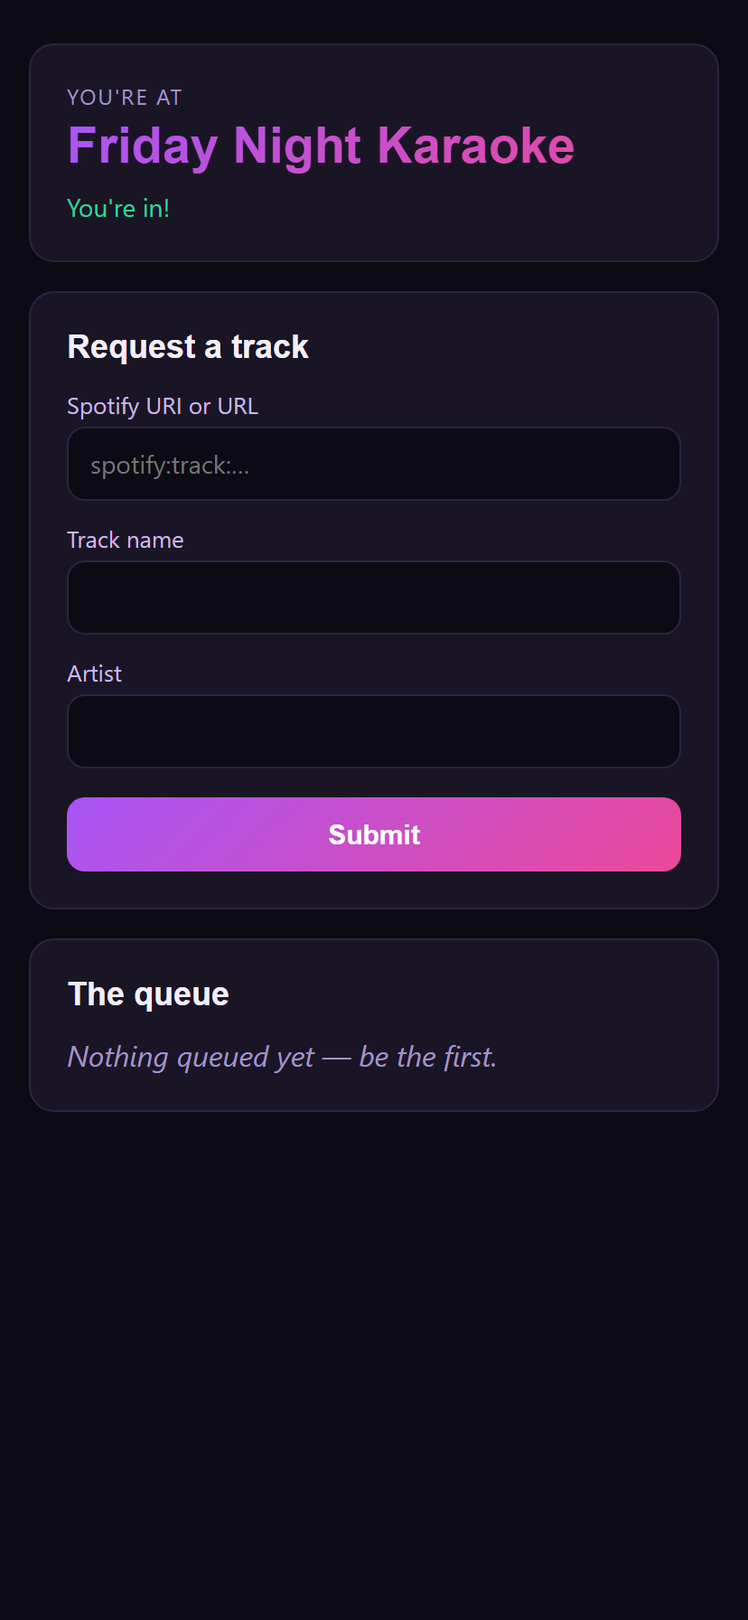
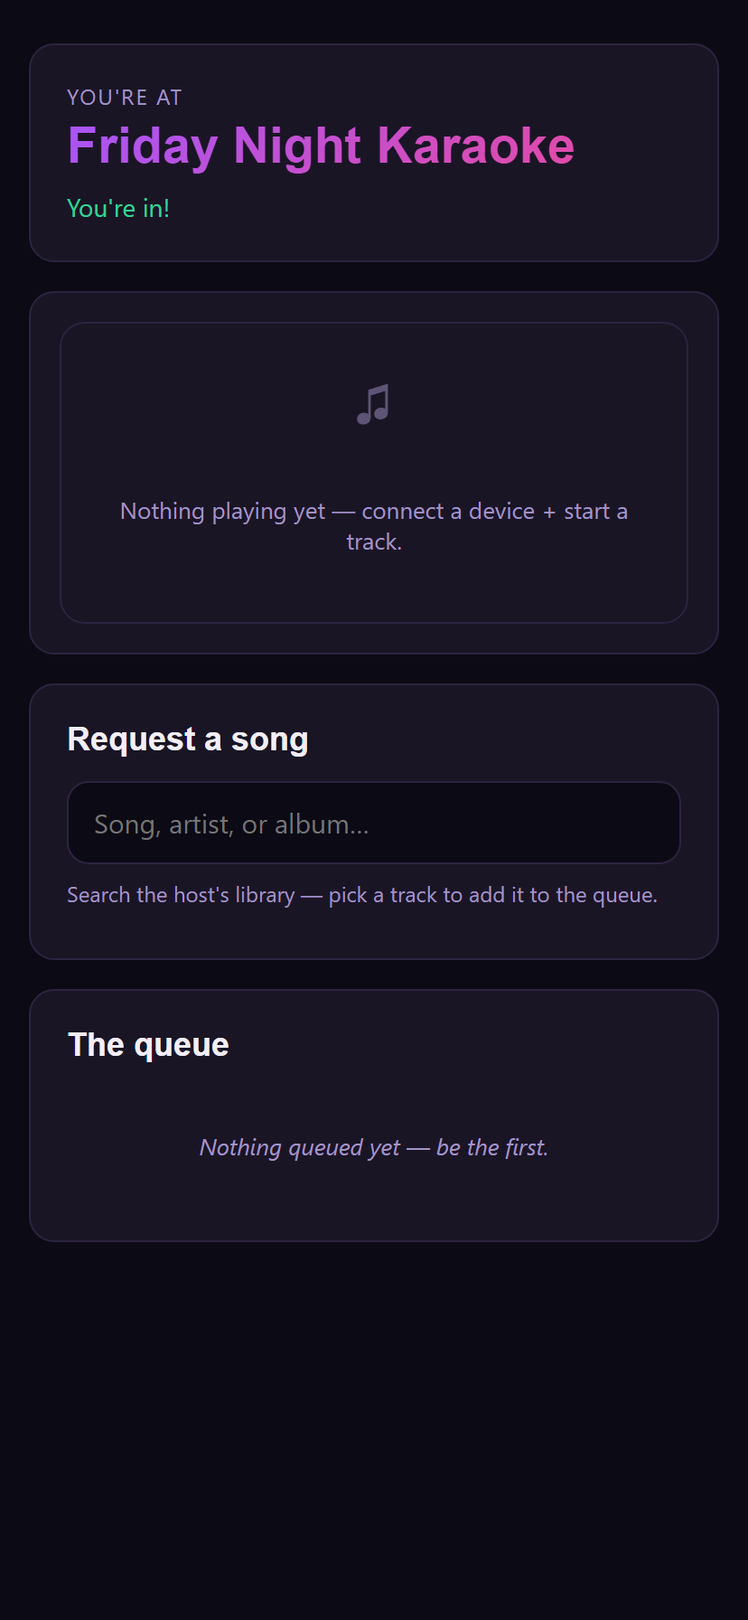
docs: refresh README + ROADMAP for the working oss-demo, regen screenshots
README "What's working" now lists the actual feature set (live Spotify
search, host playback controls, QR + device picker, public TV view)
instead of the previous "early scaffold" framing. Added two new
screenshot tiles — host-session and tv-view — captured by the
Playwright script which now produces five PNGs (host-login,
host-dashboard, host-session, guest-landing, tv-view) on every run.

ROADMAP is restructured around the OSS / hosted boundary. P0 column
flips most items to ✅ (poller, playback control, devices, TV
snapshot, persistent skip-vote ledger, reusable Angular components,
TV page). The "Out of scope" section grew + got more specific so
contributors and the opendj.live team know exactly which lines stay
private (Branding Studio, multi-zone billing, polished TV layouts,
lyrics rendering, analytics, smart sets, onboarding wizard polish,
multi-venue account drawer, smart-ad-after-request, pricing, DJ
service, OAuth-error variants, re-auth modal, session-end recap).

diff --git a/scripts/capture-screenshots.ts b/scripts/capture-screenshots.ts
@@ -146,6 +146,21 @@ async function captureHostDashboard(browser: Browser, cookieValue: string): Prom
   await page.context().close();
 }
 
+async function captureHostSession(
+  browser: Browser,
+  cookieValue: string,
+  sessionId: string,
+): Promise<void> {
+  const page = await newAuthedPage(browser, cookieValue);
+  await page.goto(`${BASE_URL}/host/sessions/${sessionId}`, { waitUntil: 'networkidle' });
+  // Wait for the now-playing card to render. It might say "Nothing playing
+  // yet" but that's still a fully-rendered state worth capturing.
+  await page.waitForSelector('app-now-playing-card', { timeout: 5_000 });
+  await page.waitForTimeout(500);
+  await page.screenshot({ path: resolve(OUT_DIR, 'host-session.png'), fullPage: false });
+  await page.context().close();
+}
+
 async function captureGuestLanding(browser: Browser, qrSlug: string): Promise<void> {
   const ctx = await browser.newContext({
     viewport: MOBILE_VIEWPORT,
@@ -158,6 +173,21 @@ async function captureGuestLanding(browser: Browser, qrSlug: string): Promise<vo
   // Guest fingerprint + identity calls happen on mount — give them a moment.
   await page.waitForTimeout(800);
   await page.screenshot({ path: resolve(OUT_DIR, 'guest-landing.png'), fullPage: false });
+  await ctx.close();
+}
+
+async function captureTvView(browser: Browser, qrSlug: string): Promise<void> {
+  // TV view targets a 1280x720 fullscreen surface — common for casts to a
+  // browser tab on a TV. Higher res Playwright takes for free at @2.
+  const ctx = await browser.newContext({
+    viewport: { width: 1280, height: 720 },
+    deviceScaleFactor: 2,
+  });
+  const page = await ctx.newPage();
+  await page.goto(`${BASE_URL}/tv/${qrSlug}`, { waitUntil: 'networkidle' });
+  // tvSnapshot fetch + WS open happen on mount; allow them to settle.
+  await page.waitForTimeout(1000);
+  await page.screenshot({ path: resolve(OUT_DIR, 'tv-view.png'), fullPage: false });
   await ctx.close();
 }
 
@@ -180,13 +210,17 @@ async function main(): Promise<void> {
     console.log('[screenshots] captured host-login.png');
     await captureHostDashboard(browser, setup.cookieValue);
     console.log('[screenshots] captured host-dashboard.png');
+    await captureHostSession(browser, setup.cookieValue, setup.sessionId);
+    console.log('[screenshots] captured host-session.png');
     await captureGuestLanding(browser, setup.qrSlug);
     console.log('[screenshots] captured guest-landing.png');
+    await captureTvView(browser, setup.qrSlug);
+    console.log('[screenshots] captured tv-view.png');
   } finally {
     await browser.close();
   }
 
-  console.log(`[screenshots] done — wrote 3 files to ${OUT_DIR}`);
+  console.log(`[screenshots] done — wrote 5 files to ${OUT_DIR}`);
 }
 
 main().catch((err) => {

diff --git a/ROADMAP.md b/ROADMAP.md
@@ -4,44 +4,48 @@ This roadmap mirrors the priority list from [`docs/agent-brief.md`](./docs/agent
 
 Status legend: ✅ done · 🔄 in progress · ⏳ planned · ⛔ out of scope (lives in private `opendj-live`)
 
-## P0 — foundation
+## P0 — foundation (every line item shipped)
 
 | Status | Item                                                                                                                                                                                                                                               |
 | ------ | -------------------------------------------------------------------------------------------------------------------------------------------------------------------------------------------------------------------------------------------------- |
 | ✅     | Monorepo scaffold (pnpm + Turborepo + strict TS + Vitest + ESLint + Prettier)                                                                                                                                                                      |
 | ✅     | OSS conventions (MIT, Contributor Covenant, DCO, Conventional Commits, Changesets, dependabot)                                                                                                                                                     |
-| ✅     | `IStreamingProvider` base interface + modular `ISupports*` feature interfaces + capability descriptors                                                                                                                                             |
-| ✅     | `SpotifyProvider` implementing the interface using fetch (no SDK)                                                                                                                                                                                  |
+| ✅     | `IStreamingProvider` base interface + modular `ISupports*` feature interfaces + capability descriptors (Search, NowPlayingRead, QueueTrack, SkipTrack, Pause, Resume, VolumeRead, VolumeSetAbsolute, **DevicesRead, DeviceTransferPlayback**)      |
+| ✅     | `SpotifyProvider` implementing all the above using fetch (no SDK)                                                                                                                                                                                  |
 | ✅     | `StreamingRouter` + explicit provider registry wiring                                                                                                                                                                                              |
 | ✅     | Public package boundaries published (`@opendj/core`, `@opendj/db`, `@opendj/auth`, `@opendj/backend`, `@opendj/realtime`, `@opendj/abuse`, `@opendj/sync`, `@opendj/lyrics`, `@opendj/frontend`, `@opendj/frontend-template`, `@opendj/app-shell`) |
-| ✅     | Drizzle schema + migrations (users, accounts, auth, sessions, queue, slots, lyrics, abuse) — generated + applied on boot                                                                                                                           |
-| ✅     | Realtime room abstraction: `RealtimeRoom`, `SessionSnapshot`, `SessionEvent`, `SessionCommand`                                                                                                                                                     |
+| ✅     | Drizzle schema + migrations (users, accounts, auth, sessions, queue items, **queue_skip_votes**, slots, lyrics, abuse) — generated + applied on boot                                                                                               |
+| ✅     | Realtime room abstraction: `RealtimeRoom`, `SessionSnapshot` (now with `recentlyPlayed`), `SessionEvent`, `SessionCommand`                                                                                                                         |
 | ✅     | OSS `NodeSessionRoom` in-process realtime implementation                                                                                                                                                                                           |
-| 🔄     | Sync primitives: `@opendj/sync` + `PlaybackClockSample` + normalized progress + `SongSyncAdapter`                                                                                                                                                  |
-| 🔄     | Lyrics/karaoke: `@opendj/lyrics` + LRCLIB adapter + LRC parser + lyrics cache + feedback capture                                                                                                                                                   |
+| ✅     | **`NowPlayingPoller`** — per-room 5s tick that calls `provider.getNowPlaying()` and publishes diffs. Lifecycle driven by WS subscriber count + 30s idle grace. Handles 401 (stop), 429 (exp backoff), transient (continue).                        |
+| ✅     | **Playback control routes** — `POST /sessions/:id/playback/{skip,pause,resume}` gated by `provider:control_playback`                                                                                                                               |
+| ✅     | **Spotify Connect device routes** — `GET /sessions/:id/devices` + `POST /sessions/:id/devices/:deviceId/activate`                                                                                                                                  |
+| ✅     | **Public TV snapshot route** — `GET /sessions/by-slug/:slug/tv-snapshot` for the casting page (no auth)                                                                                                                                            |
+| 🔄     | Sync primitives: `@opendj/sync` + `PlaybackClockSample` + normalized progress + `SongSyncAdapter` (basic types in place; cross-provider clock alignment is hosted's polish layer)                                                                  |
+| 🔄     | Lyrics/karaoke: `@opendj/lyrics` + LRCLIB adapter + LRC parser + lyrics cache + feedback capture (lookup service in place; rendering UI lives in `opendj-live`)                                                                                    |
 | ✅     | Auth & claims: OAuth/OIDC login (Google), email/password fallback (Argon2id), email verification, password reset, sessions, claim middleware, account membership, account bootstrap                                                                |
 | ✅     | Abuse prevention: action signal capture, rolling-window rate limits, risk scoring                                                                                                                                                                  |
-| ✅     | Core queue logic: `canEnqueue`, `enforcePerGuestCap`, `dedupeQueue`, `canSkip`                                                                                                                                                                     |
+| ✅     | Core queue logic: `canEnqueue`, `enforcePerGuestCap`, `dedupeQueue`, `canSkip`, **persistent skip-vote dedupe** (`queue_skip_votes` table)                                                                                                         |
 | ✅     | Generic music-provider OAuth routes (Spotify connected via host dashboard)                                                                                                                                                                         |
 | ✅     | Guest identity + slot system + bearer-token auth                                                                                                                                                                                                   |
-| ✅     | Angular 21 OSS frontend template — guest request page                                                                                                                                                                                              |
-| ✅     | Angular 21 OSS frontend template — host login + dashboard + session moderation                                                                                                                                                                     |
-| 🔄     | Docker Compose OSS demo — boots end-to-end; CI smoke test still pending                                                                                                                                                                            |
+| ✅     | Angular 21 OSS frontend template — guest request page (live Spotify search, now-playing, recently-played, queue with skip-vote pill)                                                                                                               |
+| ✅     | Angular 21 OSS frontend template — host login + dashboard + session moderation (now-playing card with skip/pause/resume, QR code, device picker, recently-played)                                                                                  |
+| ✅     | Angular 21 OSS frontend template — public `/tv/:slug` page (read-only fullscreen casting view)                                                                                                                                                     |
+| ✅     | Reusable Angular components in `@opendj/frontend-template/src/app/components/`: `NowPlayingCard`, `QrCode`, `SearchResultList`, `QueueList`, `RecentlyPlayedList`, `DevicePicker`                                                                  |
+| 🔄     | Docker Compose OSS demo — boots end-to-end with migrations + frontend bundle; CI smoke test still pending                                                                                                                                          |
 
 ## P1
 
-| Status | Item                                                        |
-| ------ | ----------------------------------------------------------- |
-| ⏳     | Vote-to-skip (fixed / percentage / host approval)           |
-| ⏳     | Host onboarding (no-device warning, OAuth error states)     |
-| ⏳     | Soundtrack Your Brand provider                              |
-| ⏳     | Apple / Facebook OAuth login (currently 501 stubs)          |
-| ⏳     | QR code generation (PNG + PDF)                              |
-| ⏳     | TV fullscreen view with synced lyrics display               |
-| ⏳     | Host settings (all sections)                                |
-| ⏳     | Session creation wizard                                     |
-| ⏳     | Logged-in guest UX (account link, profile, request history) |
-| ⏳     | Playwright e2e — guest → host moderation flow               |
+| Status | Item                                                                                                        |
+| ------ | ----------------------------------------------------------------------------------------------------------- |
+| ⏳     | Vote-to-skip auto-trigger when threshold crosses (currently records the vote + publishes the count)         |
+| ⏳     | Apple / Facebook OAuth login (currently 501 stubs)                                                          |
+| ⏳     | QR code download (PNG/PDF) + printable poster (component renders SVG only today)                            |
+| ⏳     | Logged-in guest UX (account link, profile, request history)                                                 |
+| ⏳     | Playwright e2e — guest → host moderation flow                                                               |
+| ⏳     | CI smoke test for `apps/oss-demo` (`docker compose config` + curl /health)                                  |
+| ⏳     | Bulk request route (`POST /queue/bulk`) for "queue all from playlist"                                       |
+| ⏳     | Provider playlists read (`ISupportsPlaylistsRead` + Spotify impl + `GET /sessions/:id/playlists/:provider`) |
 
 ## P2
 
@@ -51,14 +55,27 @@ Status legend: ✅ done · 🔄 in progress · ⏳ planned · ⛔ out of scope (
 
 ## Out of scope here (lives in private `opendj-live`)
 
-| Status | Item                                                                               |
-| ------ | ---------------------------------------------------------------------------------- |
-| ⛔     | Hosted Cloudflare deployment (`opendj.live`, `app.opendj.live`, `api.opendj.live`) |
-| ⛔     | Cloudflare Workers + Durable Objects + Hyperdrive hosted layer                     |
-| ⛔     | Billing, subscriptions, payment provider integration                               |
-| ⛔     | Branding Studio, white-label, hosted product analytics                             |
-| ⛔     | Capacitor iOS/Android wrapper (`opendj-live/apps/mobile`)                          |
-| ⛔     | Desktop shell experiment                                                           |
+The hosted product (`opendj.live`) builds on these libraries and adds the polished UX + monetized layers. The boundary is deliberate — every line below stays out of OSS so self-hosters can run a useful demo without competing with the hosted product:
+
+| Status | Item                                                                                                                                                                 |
+| ------ | -------------------------------------------------------------------------------------------------------------------------------------------------------------------- |
+| ⛔     | **Branding Studio** — host-uploaded logo, custom fonts, accent colors, copy editing, template gallery                                                                |
+| ⛔     | **Multi-zone billing** + zone-detail UI ("Patio · Sonos Move 2 · 24 listeners" view, per-zone crossfade controls)                                                    |
+| ⛔     | **Polished TV layouts** — overlay / centered / split lyrics layouts, full-bleed album-art backdrops, sponsor strip                                                   |
+| ⛔     | **Lyrics rendering** on guest + TV (synced / unsynced / missing / paused; classic / subtle / theatrical / word-highlight active-line styles; report-bad-lyric sheet) |
+| ⛔     | **Analytics dashboard** + CSV export (volume chart, top tracks, KPI strip, safety summary mini-card)                                                                 |
+| ⛔     | **Smart sets** — auto-generated playlists from event history (just-played-clean, crowd-discovered, fresh-blood)                                                      |
+| ⛔     | **Onboarding wizard** — 4-step welcome → connect → device picker (OSS demo goes register → dashboard directly)                                                       |
+| ⛔     | **Account drawer with multi-venue history** + "venues nearby" + playlist sync + save-to-playlist                                                                     |
+| ⛔     | **Smart ad after request** ("Pro hides ads" upsell)                                                                                                                  |
+| ⛔     | **Pricing / billing / Stripe / upgrade modals**                                                                                                                      |
+| ⛔     | **DJ-for-an-Event service** — pre-event consult, live mixing, branded guest page, post-event recap                                                                   |
+| ⛔     | **Five-variant OAuth error screens** (denied / no premium / missing scopes / timeout / network)                                                                      |
+| ⛔     | **Re-auth banner with reconnect modal** (loading / success / failure variants)                                                                                       |
+| ⛔     | **Session ended recap** with stats grid + safety summary                                                                                                             |
+| ⛔     | Hosted Cloudflare deployment (`opendj.live`, `app.opendj.live`, `api.opendj.live`)                                                                                   |
+| ⛔     | Cloudflare Workers + Durable Objects + Hyperdrive hosted layer                                                                                                       |
+| ⛔     | Capacitor iOS/Android wrapper (`opendj-live/apps/mobile`)                                                                                                            |
 
 ## Want to help?
 

diff --git a/README.md b/README.md
@@ -19,14 +19,14 @@ A working hosted implementation lives at [opendj.live](https://opendj.live), bui
 
 End-to-end demo via `docker compose up`:
 
-- 🎟 **Guest journey** — scan QR → land on `/u/:slug` → fingerprint-based identity → request songs (3-per-guest cap, configurable)
-- 🎛 **Host journey** — register / log in (email + password or Google OAuth) → personal account auto-bootstrapped → create session → moderate the queue (approve / reject pending) → end session
-- 🎵 **Spotify provider** — OAuth connect from the host dashboard, search proxied through `/api/v1/sessions/:id/search`
-- 🔌 **Realtime** — WebSocket room per session, in-process registry on Node, swappable backend
-- 📧 **Account flows** — email verification + password reset (both single-use, SHA-256-hashed token storage)
-- 🛡 **Auth model** — `__Host-` prefixed cookies for hosts, opaque bearer tokens for guest slots, capability-based claims (`session:create`, `queue:moderate`, etc.) checked per-request
+- 🎟 **Guest journey** — scan QR → land on `/u/:slug` → live Spotify search → click a result to add it to the queue. Now-playing card + skip-vote + recently-played strip, all kept in sync over WebSocket.
+- 🎛 **Host journey** — register / log in (email + password or Google OAuth) → personal account auto-bootstrapped → create session → moderate the queue → **skip / pause / resume playback** → swap which Spotify Connect device plays audio → end session.
+- 📺 **TV view** — public read-only `/tv/:slug` for casting to a room screen. Fullscreen now-playing, QR to join, up-next queue, listener count.
+- 🎵 **Spotify provider** — search, queue track, now-playing read, skip / pause / resume, volume read+set, device list + transfer playback. Plus the now-playing poller that publishes diff-based updates to the realtime room every 5s while subscribers are connected.
+- 🔌 **Realtime** — per-session WebSocket room with snapshot-on-connect + delta events (`now_playing.updated`, `queue.item_*`, `skip_vote.updated`, `session.ended`). In-process registry on Node, swappable for Cloudflare Durable Objects on hosted.
+- 🛡 **Auth model** — `__Host-` prefixed cookies for hosts, opaque bearer tokens for guest slots, capability-based claims (`session:create`, `queue:moderate`, `provider:control_playback`, etc.) checked per-request. Email verification + password reset wired (single-use, SHA-256-hashed tokens).
 
-> **Status:** every package has a real implementation, `pnpm turbo run typecheck test` is green across the workspace (~600 tests), and `apps/oss-demo` boots end-to-end behind a single port. The first migration is generated and applied automatically on container start.
+> **Status:** every P0 package is real (no stubs), `pnpm turbo run typecheck test` is green across the workspace (~700 tests), and `apps/oss-demo` boots end-to-end behind a single port. Migrations apply on container start.
 
 ## Quickstart (self-host)
 
@@ -58,17 +58,22 @@ The container runs Drizzle migrations against the bundled Postgres on startup, s
 
 ### Use the demo
 
-1. Open http://127.0.0.1:8888/host/register and create a host account
+1. Open http://127.0.0.1:8888/host/login and **Create account**
 2. From the dashboard, click **Connect Spotify** (requires Spotify creds in `.env`)
 3. Click **Create session** — you get a `qrSlug`
-4. Open `http://127.0.0.1:8888/u/<qrSlug>` in another browser / mobile to play guest
-5. Search + request a song; back on the host page, approve it from the queue
+4. On the session page, click **Choose device** to pick which Spotify Connect endpoint plays audio
+5. Open `http://127.0.0.1:8888/u/<qrSlug>` in another browser / mobile — search any song and click a result to add it to the queue
+6. Cast `http://127.0.0.1:8888/tv/<qrSlug>` on a TV / second monitor for a fullscreen "now playing + scan to join" view
 
 ### Screenshots
 
-| Host login                                                                                    | Host dashboard                                                                                                                    | Guest request                                                                                                                   |
-| --------------------------------------------------------------------------------------------- | --------------------------------------------------------------------------------------------------------------------------------- | ------------------------------------------------------------------------------------------------------------------------------- |
-| ![Host login screen showing email + password sign-in tabs](./docs/screenshots/host-login.png) | ![Host dashboard with Music providers card, session creation form, and a live session row](./docs/screenshots/host-dashboard.png) | ![Mobile guest landing showing 'You're at Friday Night Karaoke' and a track request form](./docs/screenshots/guest-landing.png) |
+| Host login                                                                         | Host dashboard                                                                                      | Host session                                                                                                         |
+| ---------------------------------------------------------------------------------- | --------------------------------------------------------------------------------------------------- | -------------------------------------------------------------------------------------------------------------------- |
+| ![Host login screen with email + password tabs](./docs/screenshots/host-login.png) | ![Host dashboard with Music providers card and live session](./docs/screenshots/host-dashboard.png) | ![Host session page with QR code, now-playing, device picker, queue moderation](./docs/screenshots/host-session.png) |
+
+| Guest request                                                                                         | TV view                                                                                                        |
+| ----------------------------------------------------------------------------------------------------- | -------------------------------------------------------------------------------------------------------------- |
+| ![Mobile guest landing — search box + now-playing card + queue](./docs/screenshots/guest-landing.png) | ![Fullscreen TV view — now-playing, QR to join, up-next queue, listener count](./docs/screenshots/tv-view.png) |
 
 > Generated by `pnpm screenshots` — runs Playwright headlessly against the live `:8888` stack and writes PNGs to `docs/screenshots/`. Re-run any time the UI changes.
 
